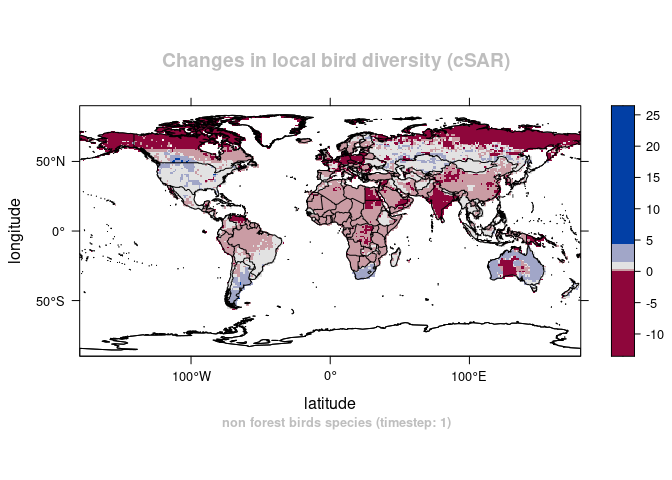
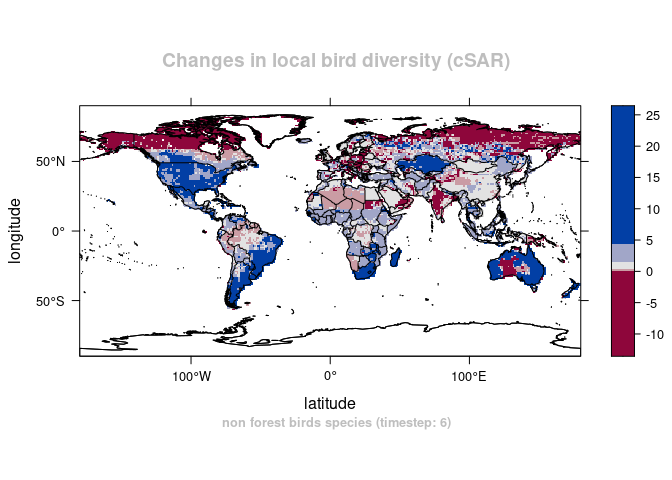
added plots

Changed region(s): [[0.4375, 0.2812, 0.8438, 0.5938], [0.2188, 0.3125, 0.4375, 0.625], [0.8438, 0.5938, 0.875, 0.625]]

diff --git a/README.md b/README.md
@@ -85,12 +85,10 @@ properties of that file.
 ``` r
 library(ebvnetcdf)
 
-file <- system.file("extdata/cSAR_idiv_v1.nc", package="ebvnetcdf")
+file <- system.file(file.path("extdata","cSAR_idiv_v1.nc"), package="ebvnetcdf")
 prop.file <- ebv_properties(file)
 
-prop.file
-#> An object of class "EBV NetCDF properties"
-#> Slot "general":
+prop.file@general
 #> $title
 #> [1] "Changes in local bird diversity (cSAR)"
 #> 
@@ -120,54 +118,6 @@ prop.file
 #> 
 #> $value_range
 #> [1] NA
-#> 
-#> 
-#> Slot "spatial":
-#> $srs
-#> CRS arguments: +proj=longlat +datum=WGS84 +no_defs 
-#> 
-#> $epsg
-#> [1] 4326
-#> 
-#> $resolution
-#> [1] 1 1
-#> 
-#> $extent
-#> [1] -180  180  -90   90
-#> 
-#> $dimensions
-#> [1] 180 360  12
-#> 
-#> 
-#> Slot "temporal":
-#> $units
-#> [1] "days since 1860-01-01 00:00:00.0"
-#> 
-#> $t_delta
-#> [1] "10 Years"
-#> 
-#> $timesteps
-#>  [1] 18262 21914 25567 29219 32872 36524 40177 43829 47482 51134 54787 56613
-#> 
-#> $timesteps.natural
-#>  [1] "1910-01-01" "1920-01-01" "1930-01-01" "1940-01-01" "1950-01-01"
-#>  [6] "1960-01-01" "1970-01-01" "1980-01-01" "1990-01-01" "2000-01-01"
-#> [11] "2010-01-01" "2015-01-01"
-#> 
-#> 
-#> Slot "metric":
-#> $status
-#> [1] "Only available with datacube argument."
-#> 
-#> 
-#> Slot "scenario":
-#> $status
-#> [1] "Only available with datacube argument."
-#> 
-#> 
-#> Slot "entity":
-#> $status
-#> [1] "Only available with datacube argument."
 ```
 
 Now let’s get the paths to all possible datacubes. The resulting
@@ -191,90 +141,7 @@ displayed value\_range seriously.
 ``` r
 prop.dc <- ebv_properties(file, datacubes[1,1], verbose=T)
 #> Warning in ebv_i_read_att(hdf, "value_range"): The attribute value_range does not exist. Or maybe wrong location in NetCDF?
-prop.dc
-#> An object of class "EBV NetCDF properties"
-#> Slot "general":
-#> $title
-#> [1] "Changes in local bird diversity (cSAR)"
-#> 
-#> $description
-#> [1] "Changes in bird diversity at the grid cell level caused by land-use, estimated by the cSAR model (Martins & Pereira, 2017). It reports changes in species number (percentage and absolute), relative to 1900, for all bird species, forest bird species, and non-forest bird species in each cell. Uses the LUH 2.0 projections for land-use, and the PREDICTS coefficients for bird affinities to land-uses."
-#> 
-#> $ebv_class
-#> [1] "Community composition"
-#> 
-#> $ebv_name
-#> [1] "Species diversity"
-#> 
-#> $ebv_subgroups
-#> [1] "scenario" "metric"   "entity"  
-#> 
-#> $creator
-#> [1] "Ines Martins"
-#> 
-#> $institution
-#> [1] ""
-#> 
-#> $contactname
-#> [1] ""
-#> 
-#> $contactemail
-#> [1] ""
-#> 
-#> $value_range
-#> [1] NA
-#> 
-#> 
-#> Slot "spatial":
-#> $srs
-#> CRS arguments: +proj=longlat +datum=WGS84 +no_defs 
-#> 
-#> $epsg
-#> [1] 4326
-#> 
-#> $resolution
-#> [1] 1 1
-#> 
-#> $extent
-#> [1] -180  180  -90   90
-#> 
-#> $dimensions
-#> [1] 180 360  12
-#> 
-#> 
-#> Slot "temporal":
-#> $units
-#> [1] "days since 1860-01-01 00:00:00.0"
-#> 
-#> $t_delta
-#> [1] "10 Years"
-#> 
-#> $timesteps
-#>  [1] 18262 21914 25567 29219 32872 36524 40177 43829 47482 51134 54787 56613
-#> 
-#> $timesteps.natural
-#>  [1] "1910-01-01" "1920-01-01" "1930-01-01" "1940-01-01" "1950-01-01"
-#>  [6] "1960-01-01" "1970-01-01" "1980-01-01" "1990-01-01" "2000-01-01"
-#> [11] "2010-01-01" "2015-01-01"
-#> 
-#> 
-#> Slot "metric":
-#> $label
-#> [1] "mean"
-#> 
-#> $description
-#> [1] "mean values per decade"
-#> 
-#> 
-#> Slot "scenario":
-#> $label
-#> [1] "past: 1900 - 2015"
-#> 
-#> $description
-#> [1] "calculations where done per decade betrween 1900 and 2015"
-#> 
-#> 
-#> Slot "entity":
+prop.dc@entity
 #> $long_name
 #> [1] "Changes in local bird diversity (cSAR)"
 #> 
@@ -294,28 +161,27 @@ prop.dc
 ### Plot the data to get a better impression
 
 Plot a map of the datacube that we just looked at - it has 12 timesteps,
-mabe look at two different ones?
+mabe look at the sixth one?
 
 ``` r
 options('temp_directory'=system.file("extdata/", package="ebvnetcdf"))
 dc <- datacubes[1,1]
-ebv_plot_map(file, dc, timestep = 1)
+ebv_plot_map(file, dc, timestep = 6)
 ```
 
 <img src="man/figures/README-unnamed-chunk-4-1.png" width="100%" />
 
 ``` r
-ebv_plot_map(file, dc, timestep = 6)
-```
-
-<img src="man/figures/README-unnamed-chunk-4-2.png" width="100%" />
-
-``` r
 
 # What was the data about again? Check the properties!
-# prop.dc@title
+prop.dc@general$title
+#> [1] "Changes in local bird diversity (cSAR)"
 # And the datacube?
-# prop.dc@entity_information@label
+prop.dc@entity$label
+#> [1] "non forest birds species"
+#What time is the sixth timestep representing?
+prop.dc@temporal$timesteps.natural[6]
+#> [1] "1960-01-01"
 ```
 
 It’s nice to see the global distribution, but how is the change of that
@@ -323,8 +189,12 @@ datacube (non forest birds) over time? Let’s take a look at the average.
 The function returns the values, catch them\!
 
 ``` r
-# averages <- ebv_plot_indicator(file, dc)
+averages <- ebv_plot_indicator(file, dc)
+#> [1] "calculating timesteps..."
+#> ================================================================================
 ```
+
+<img src="man/figures/README-unnamed-chunk-5-1.png" width="100%" />
 
 It would be cool to have that for other indicators as well? Well you
 have to wait for an update of the package. Or maybe implement it
@@ -337,11 +207,15 @@ the value range and other basic measurements.
 
 ``` r
 #info for whole dataset
-#ebv_data_analyse(file, dc)
+measurements <- ebv_data_analyse(file, dc)
+measurements$n
+#> [1] 64800
 
 #info for a subset (bounding box)
-#bb <- c(5,15,47,55)
-#ebv_data_analyse(file, dc, bb)
+bb <- c(5,15,47,55)
+measurements.bb <- ebv_data_analyse(file, dc, bb)
+measurements.bb$n
+#> [1] 80
 ```
 
 To access the data use the following
@@ -353,9 +227,14 @@ dim(data)
 #> [1] 180 360   2
 
 #load subset (shapefile)
-#shp <- 'path/to/subset/file/.shp'
-#ebv_data_read_shp(file, dc, shp, NULL, c(1,2,3))
+shp <- system.file(file.path('extdata','ne_10m_admin_0_countries_subset_germany.shp'), package="ebvnetcdf")
+data.shp <- ebv_data_read_shp(file, dc, shp, NULL, c(1,2,3))
+dim(data.shp)
+#> [1]  9 11  3
+raster::spplot(data.shp[[1]], sp.layout = list(wrld_simpl, first=FALSE))
 ```
+
+<img src="man/figures/README-unnamed-chunk-7-1.png" width="100%" />
 
 ### Take a peek on the creation of an EBV NetCDF
 
